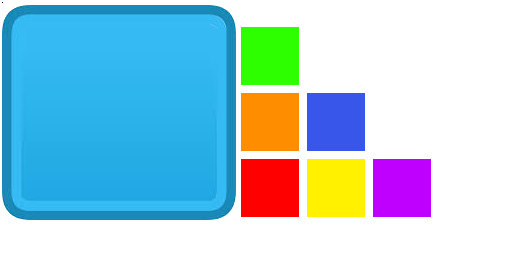
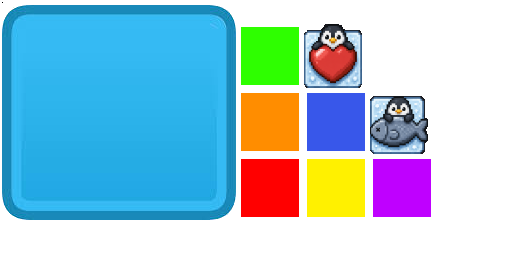
geld und hp
Took 34 minutes

Changed region(s): [[0.7188, 0.375, 0.8438, 0.625], [0.5938, 0.0938, 0.7188, 0.3438]]

diff --git a/core/src/main/java/info/pengutd/game/World.java b/core/src/main/java/info/pengutd/game/World.java
@@ -34,6 +34,8 @@ import org.jetbrains.annotations.NotNull;
 import org.jetbrains.annotations.Nullable;
 
 public class World implements Screen, InputProcessor, JsonSerializable {
+    private static final int START_MONEY = 50;
+    private static final int START_HP = 100;
     private final @NotNull Array<Enemy> enemies = new Array<>();
     private final @NotNull Array<Tower> towers = new Array<>();
     private final @NotNull Array<Projectile> projectiles = new Array<>();
@@ -52,6 +54,10 @@ public class World implements Screen, InputProcessor, JsonSerializable {
     private TowerSelection towerSelection;
     private int nextEntityId = 0;
     private @Nullable Tower previewTower;
+    ///  game state
+    private int money = START_MONEY;
+    private int hp = START_HP;
+    private int score;
 
     /// Normaler Konstruktor für eine neue Welt
     public World() {
@@ -204,7 +210,7 @@ public class World implements Screen, InputProcessor, JsonSerializable {
     @Override
     public boolean touchDown(int screenX, int screenY, int pointer, int button) {
         enemies.add(new WarriorEnemy(2, this, createEntityId()));
-        if (previewTower != null && canPlaceTower(previewTower.getPos(), previewTower)) {
+        if (previewTower != null && canPlaceTower(previewTower.getPos(), previewTower) && spendMoney(previewTower.getCost())) {
             towers.add(previewTower.place());
             setSelectedTower(0);
         }
@@ -293,6 +299,9 @@ public class World implements Screen, InputProcessor, JsonSerializable {
         value.addChild("type", new JsonValue("world"));
         value.addChild("map", new JsonValue(mapName));
         value.addChild("next_entity_id", new JsonValue(nextEntityId));
+        value.addChild("money", new JsonValue(money));
+        value.addChild("hp", new JsonValue(hp));
+        value.addChild("score", new JsonValue(score));
         // gegner
         JsonValue jsonEnemies = new JsonValue(JsonValue.ValueType.array);
         enemies.forEach(e -> jsonEnemies.addChild(e.toJson()));
@@ -336,6 +345,9 @@ public class World implements Screen, InputProcessor, JsonSerializable {
         towerSelection = new TowerSelection(viewport, this);
 
         nextEntityId = json.getInt("next_entity_id");
+        money = json.getInt("money");
+        hp = json.getInt("hp");
+        score = json.getInt("score");
         // enemies
         JsonValue jsonEnemies = json.get("enemies");
         enemies.forEach(Disposable::dispose);
@@ -424,5 +436,33 @@ public class World implements Screen, InputProcessor, JsonSerializable {
 
     public void addProjectile(Projectile projectile) {
         projectiles.add(projectile);
+    }
+
+    public int getMoney() {
+        return money;
+    }
+
+    public int getHp() {
+        return hp;
+    }
+
+    public void addMoney(int amount) {
+        money += amount;
+        towerSelection.updateTopElement();
+    }
+
+    public boolean spendMoney(int amount) {
+        if (money < amount) return false;
+
+        money -= amount;
+        towerSelection.updateTopElement();
+        return true;
+    }
+
+    public void damageHp(int amount) {
+        hp -= amount;
+
+        if (hp < 0) hp = 0;
+        towerSelection.updateTopElement();
     }
 }

diff --git a/core/src/main/java/info/pengutd/screen/TowerSelection.java b/core/src/main/java/info/pengutd/screen/TowerSelection.java
@@ -1,7 +1,5 @@
 package info.pengutd.screen;
 
-import com.badlogic.gdx.Gdx;
-import com.badlogic.gdx.InputMultiplexer;
 import com.badlogic.gdx.graphics.Color;
 import com.badlogic.gdx.graphics.g2d.BitmapFont;
 import com.badlogic.gdx.graphics.g2d.TextureAtlas;
@@ -26,6 +24,9 @@ public class TowerSelection implements Disposable {
     private final Stage uiStage;
     private final TextureAtlas atlas;
     private final World world;
+    private Table topContent;
+    private Label moneyLabel;
+    private Label hpLabel;
 
     public TowerSelection(Viewport viewport, World world) {
         uiStage = new Stage(viewport);
@@ -120,12 +121,24 @@ public class TowerSelection implements Disposable {
         Image topBackground = new Image(atlas.findRegion("button_blue"));
         topBackground.getColor().a = 0.9f;
         topBackground.setScaling(Scaling.stretch);
-        Table topContent = new Table();
-        topContent.add(new Label("Money", new Label.LabelStyle(new BitmapFont(), Color.WHITE))).pad(10).row();
-        topContent.add(new Label("HP", new Label.LabelStyle(new BitmapFont(), Color.WHITE))).pad(10);
+
+        topContent = new Table();
+        topContent.add(new Image(atlas.findRegion("money"))).size(40f, 40f).pad(5);
+        moneyLabel = new Label("" + world.getMoney(), new Label.LabelStyle(new BitmapFont(), Color.WHITE));
+        topContent.add(moneyLabel).row();
+
+        topContent.add(new Image(atlas.findRegion("hp"))).size(40f, 40f).pad(5);
+        hpLabel = new Label("" + world.getHp(), new Label.LabelStyle(new BitmapFont(), Color.WHITE));
+        topContent.add(hpLabel).row();
+
         stack.add(topBackground);
         stack.add(topContent);
         return stack;
+    }
+
+    public void updateTopElement() {
+        moneyLabel.setText("" + world.getMoney());
+        hpLabel.setText("" + world.getHp());
     }
 
     public void render(float delta) {

diff --git a/core/src/main/java/info/pengutd/game/enemy/Enemy.java b/core/src/main/java/info/pengutd/game/enemy/Enemy.java
@@ -103,7 +103,11 @@ public abstract class Enemy extends GameObject implements Disposable, JsonSerial
         }
 
         if (path.size == 0) return;
-        if (currentPathIndex >= path.size - 1) return;
+        if (currentPathIndex >= path.size - 1) {
+            getWorld().damageHp(1);
+            die();
+            return;
+        }
         Vector2 target = path.get(currentPathIndex).lerp(path.get(currentPathIndex + 1), 0.02f); // lerp damit der weg nicht so eckig ist
 
         if (getPos().dst2(target) < getSpeed() * delta * getSpeed() * delta) {

diff --git a/core/src/main/java/info/pengutd/game/enemy/WarriorEnemy.java b/core/src/main/java/info/pengutd/game/enemy/WarriorEnemy.java
@@ -88,11 +88,14 @@ public class WarriorEnemy extends Enemy {
         animatorUp.setFrameDuration(getSpeed() / SPEED_TO_ANIMATION_TIME);
         animatorDown.setFrameDuration(getSpeed() / SPEED_TO_ANIMATION_TIME);
         // todo Geld geben + stats erhöhen
+        getWorld().addMoney(1);
     }
 
     @Override
     public void die() {
+        level = 0;
         // todo Geld geben + stats erhöhen
+        getWorld().addMoney(5);
     }
 
     @Override

diff --git a/core/src/main/java/info/pengutd/game/tower/SnowballTower.java b/core/src/main/java/info/pengutd/game/tower/SnowballTower.java
@@ -34,7 +34,7 @@ public class SnowballTower extends Tower {
 
     @Override
     public int getCost() {
-        return 200;
+        return 50;
     }
 
     @Override